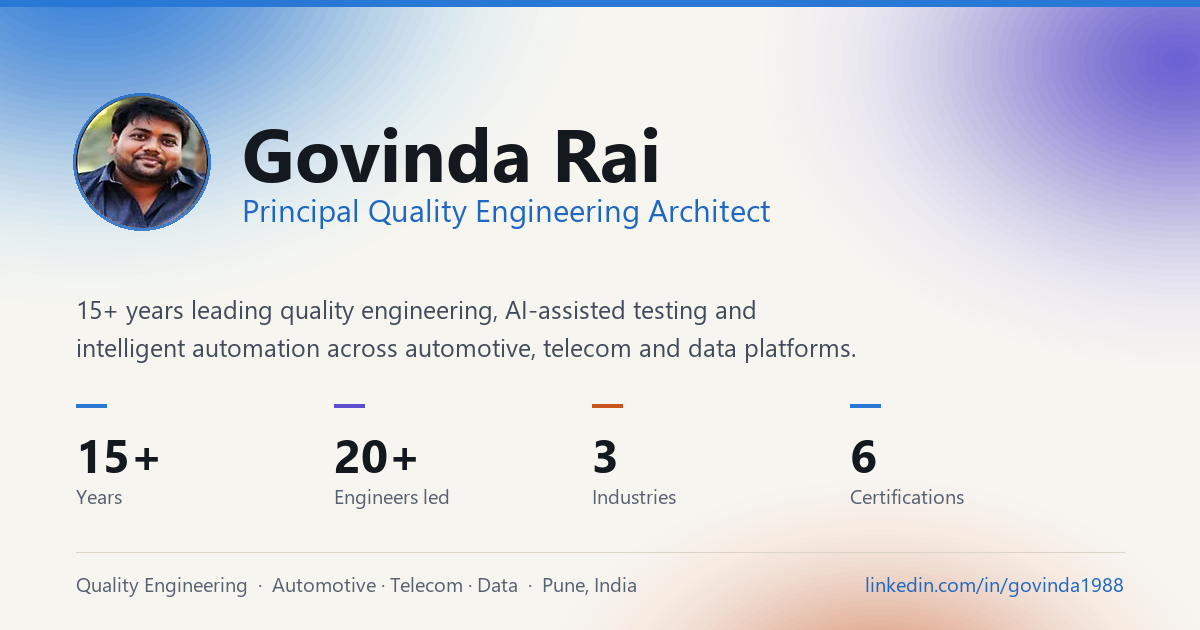
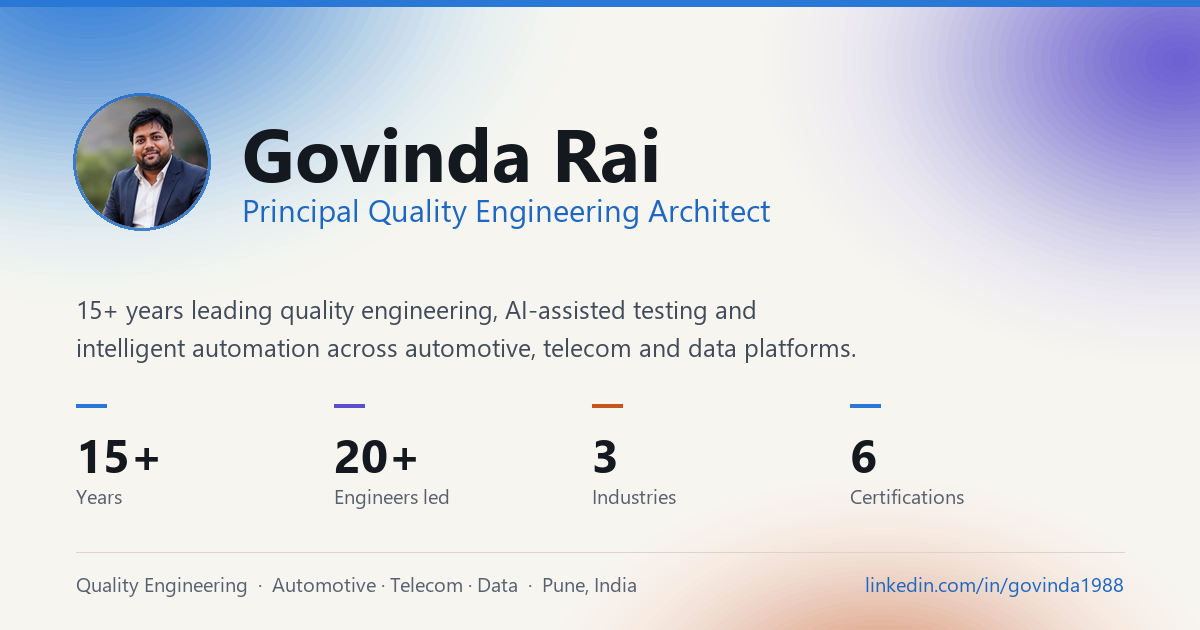
Replace portrait with the professional headshot
New source is 1254x1254 rather than the 167x167 pulled from the resume PDF, so
the photo is genuinely sharp now instead of upscaled.

- Cropped to head-and-shoulders (62% of frame, centred at 54.5%/33.5%) so the
  circular frame lands on the face rather than the torso; exported at 720x720
  to cover 2x DPI at the hero's 296px render size
- object-position moved from 50% 42% to 50% 50%: the old offset existed to bias
  a loose crop upward and would now push this pre-centred crop too high
- Social card regenerated with the new photo

Changed region(s): [[0.0617, 0.1508, 0.185, 0.3619]]

diff --git a/assets/css/style.css b/assets/css/style.css
@@ -277,7 +277,7 @@ p:last-child { margin-bottom: 0; }
 .hero-portrait img {
   position: relative; z-index: 1;
   width: 100%; aspect-ratio: 1; border-radius: 50%;
-  object-fit: cover; object-position: 50% 42%;
+  object-fit: cover; object-position: 50% 50%;
   border: 3px solid #fff;
   box-shadow: 0 22px 50px -20px rgba(20,24,31,.45);
 }
@@ -300,7 +300,7 @@ p:last-child { margin-bottom: 0; }
 
 .avatar {
   width: 74px; height: 74px; border-radius: 50%; object-fit: cover;
-  object-position: 50% 42%; flex: 0 0 74px;
+  object-position: 50% 50%; flex: 0 0 74px;
   border: 2px solid #fff; box-shadow: var(--shadow-sm);
 }
 

diff --git a/README.md b/README.md
@@ -88,11 +88,11 @@ Settings → Pages.
   known résumé anti-pattern. Skills are grouped by the job they do instead.
 - **Updating the résumé PDF** — replace `assets/files/Govinda_Rai_Resume.pdf`;
   the filename is referenced from every page's footer.
-- **Photo** — `assets/img/portrait.jpg` (420x420, upscaled from a 167x167 source,
-  so it is a little soft). To improve it, overwrite that one file with a square
-  crop of at least 600x600; no markup changes needed. It is used in the hero, on
-  the contact page and in the social card (regenerate the card by re-running the
-  generator if you change it).
+- **Photo** — `assets/img/portrait.jpg` (720x720, cropped head-and-shoulders from
+  a 1254x1254 original so the circular frame lands on the face). Used in the hero,
+  on the contact page and in the social card. To replace it, drop in a square crop
+  already centred on the face — the CSS uses `object-position: 50% 50%`, so a
+  loose full-body square will render small.
 - **Animated figures are SVG, not GIF** — a few KB each, crisp at any zoom, and
   no colour banding. Each one's resting state is the *finished* drawing and the
   keyframes only fade layers in, so the diagram is never blank if animation does
